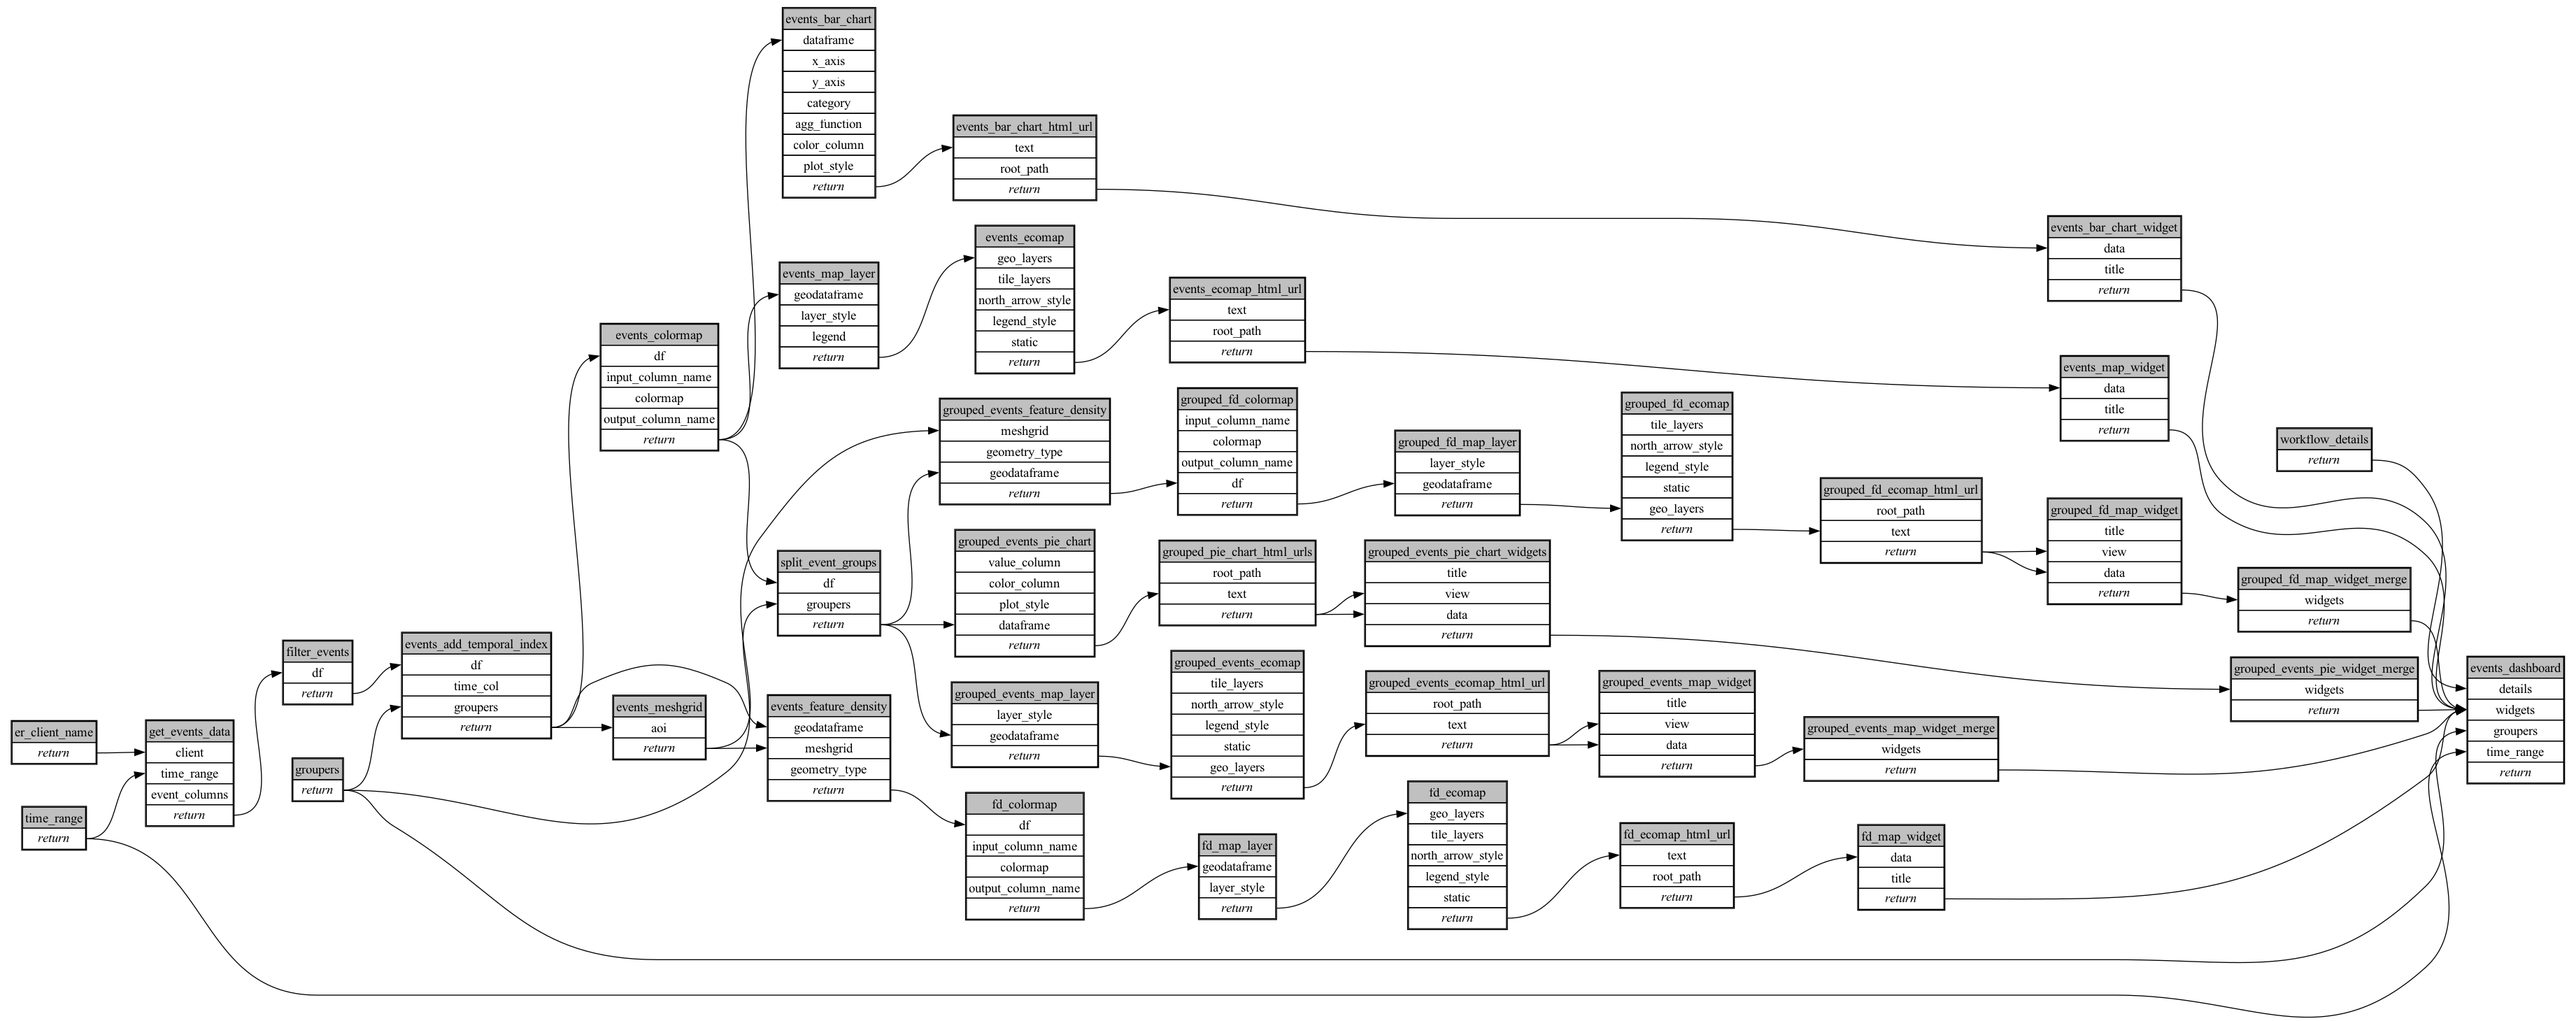
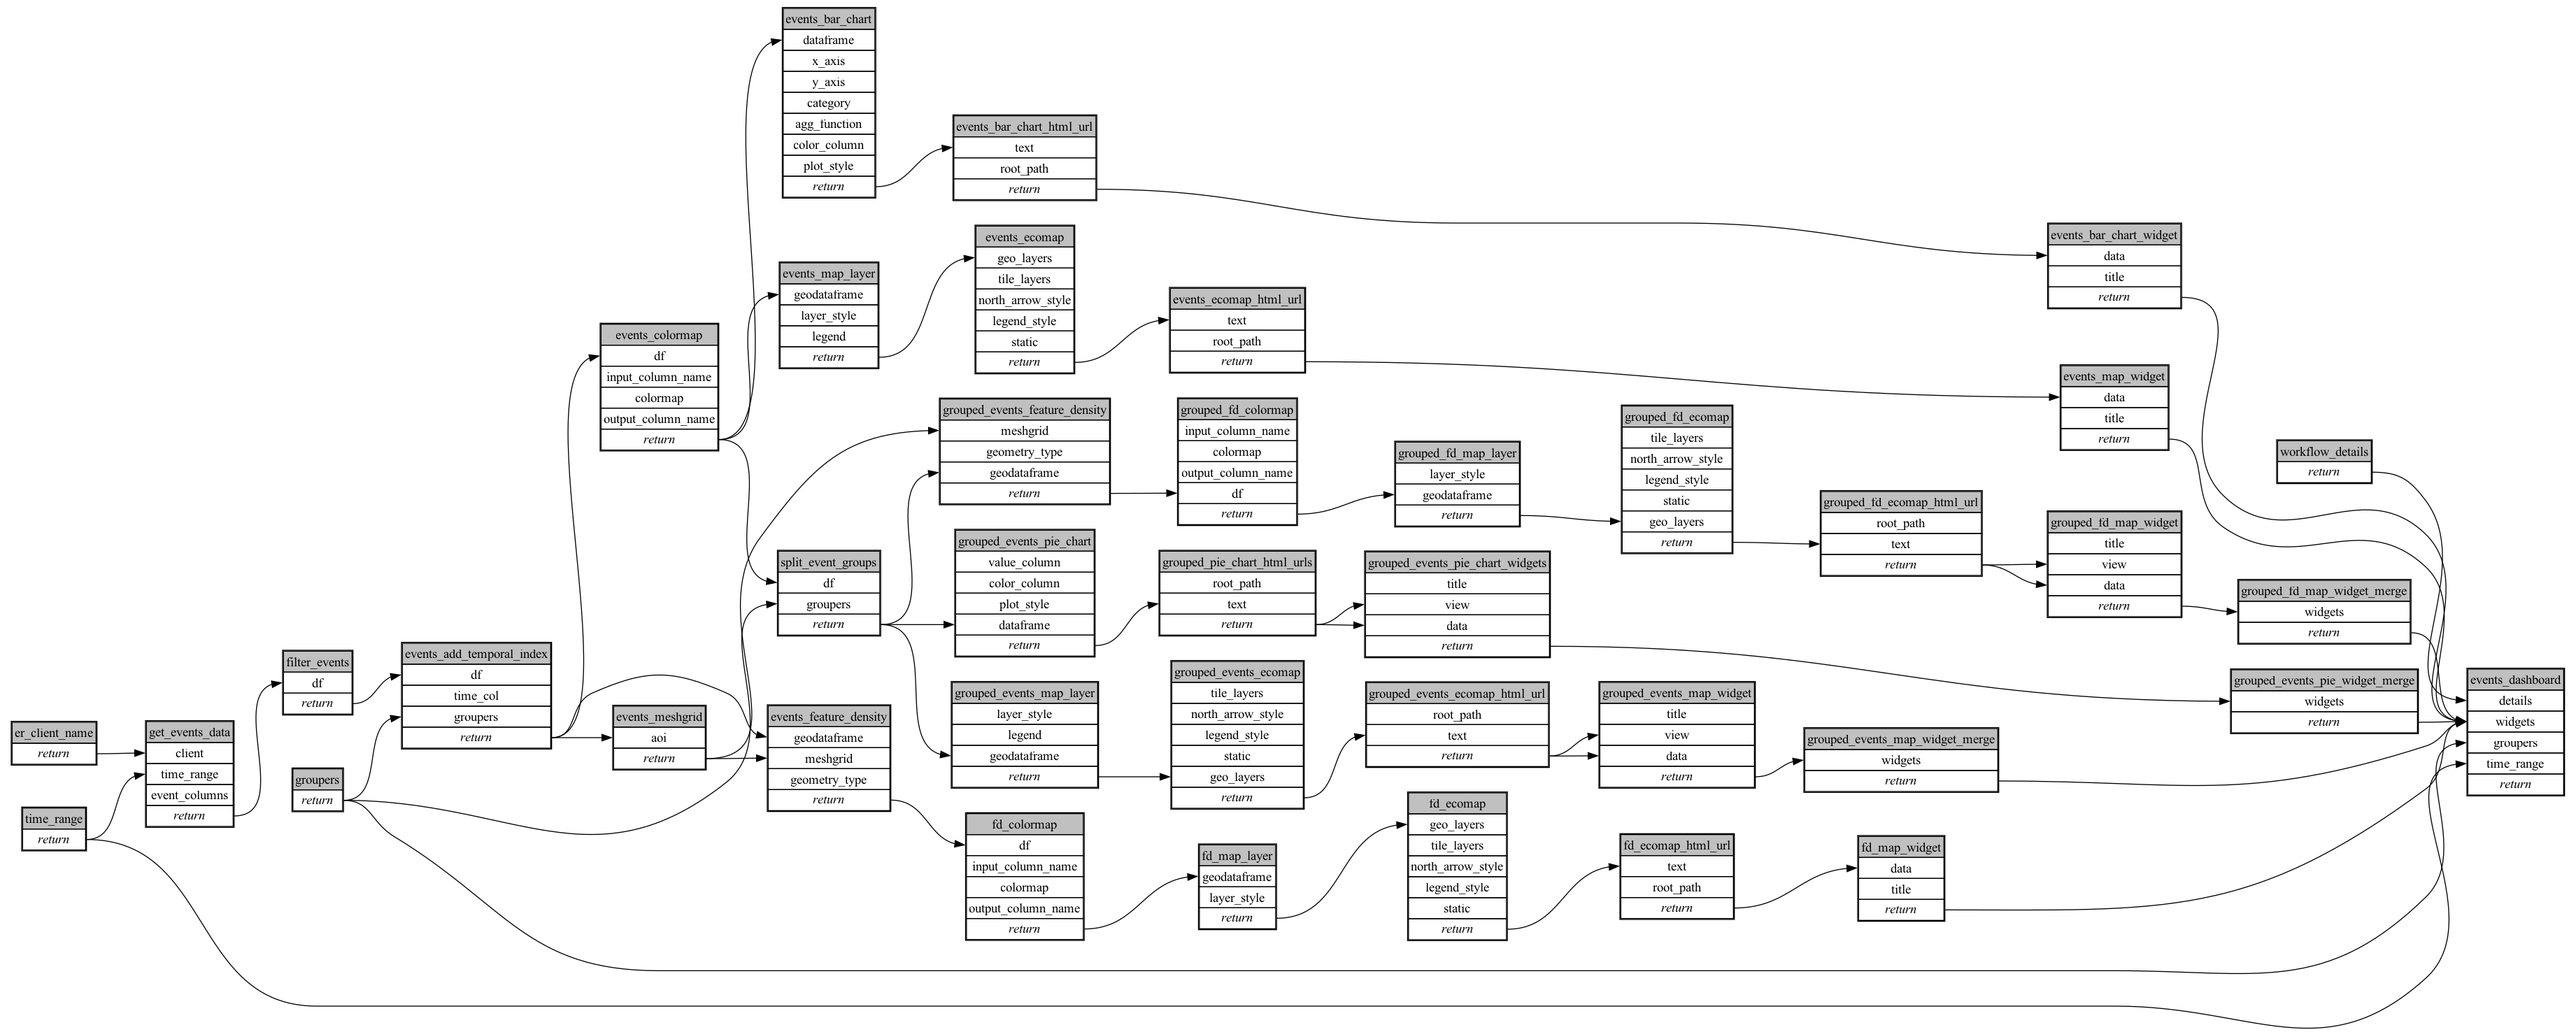
recompile

diff --git a/ecoscope-workflows-events-workflow/ecoscope_workflows_events_workflow/dags/jupytext.py b/ecoscope-workflows-events-workflow/ecoscope_workflows_events_workflow/dags/jupytext.py
@@ -524,9 +524,7 @@ split_event_groups = split_groups.partial(
 # %%
 # parameters
 
-grouped_events_map_layer_params = dict(
-    legend=...,
-)
+grouped_events_map_layer_params = dict()
 
 # %%
 # call the task
@@ -534,6 +532,7 @@ grouped_events_map_layer_params = dict(
 
 grouped_events_map_layer = create_point_layer.partial(
     layer_style={"fill_color_column": "event_type_colormap", "get_radius": 5},
+    legend={"label_column": "event_type", "color_column": "event_type_colormap"},
     **grouped_events_map_layer_params,
 ).mapvalues(argnames=["geodataframe"], argvalues=split_event_groups)
 

diff --git a/ecoscope-workflows-events-workflow/ecoscope_workflows_events_workflow/dags/run_sequential.py b/ecoscope-workflows-events-workflow/ecoscope_workflows_events_workflow/dags/run_sequential.py
@@ -268,6 +268,10 @@ def main(params: Params):
         create_point_layer.validate()
         .partial(
             layer_style={"fill_color_column": "event_type_colormap", "get_radius": 5},
+            legend={
+                "label_column": "event_type",
+                "color_column": "event_type_colormap",
+            },
             **(params_dict.get("grouped_events_map_layer") or {}),
         )
         .mapvalues(argnames=["geodataframe"], argvalues=split_event_groups)

diff --git a/ecoscope-workflows-events-workflow/ecoscope_workflows_events_workflow/dags/run_sequential_mock_io.py b/ecoscope-workflows-events-workflow/ecoscope_workflows_events_workflow/dags/run_sequential_mock_io.py
@@ -285,6 +285,10 @@ def main(params: Params):
         create_point_layer.validate()
         .partial(
             layer_style={"fill_color_column": "event_type_colormap", "get_radius": 5},
+            legend={
+                "label_column": "event_type",
+                "color_column": "event_type_colormap",
+            },
             **(params_dict.get("grouped_events_map_layer") or {}),
         )
         .mapvalues(argnames=["geodataframe"], argvalues=split_event_groups)

diff --git a/ecoscope-workflows-events-workflow/ecoscope_workflows_events_workflow/dags/run_async.py b/ecoscope-workflows-events-workflow/ecoscope_workflows_events_workflow/dags/run_async.py
@@ -321,6 +321,10 @@ def main(params: Params):
                     "fill_color_column": "event_type_colormap",
                     "get_radius": 5,
                 },
+                "legend": {
+                    "label_column": "event_type",
+                    "color_column": "event_type_colormap",
+                },
             }
             | (params_dict.get("grouped_events_map_layer") or {}),
             method="mapvalues",

diff --git a/ecoscope-workflows-events-workflow/ecoscope_workflows_events_workflow/dags/run_async_mock_io.py b/ecoscope-workflows-events-workflow/ecoscope_workflows_events_workflow/dags/run_async_mock_io.py
@@ -338,6 +338,10 @@ def main(params: Params):
                     "fill_color_column": "event_type_colormap",
                     "get_radius": 5,
                 },
+                "legend": {
+                    "label_column": "event_type",
+                    "color_column": "event_type_colormap",
+                },
             }
             | (params_dict.get("grouped_events_map_layer") or {}),
             method="mapvalues",

diff --git a/ecoscope-workflows-events-workflow/ecoscope_workflows_events_workflow/app.py b/ecoscope-workflows-events-workflow/ecoscope_workflows_events_workflow/app.py
@@ -23,7 +23,7 @@ from .params import Params
 app = FastAPI(
     title="events",
     debug=True,
-    version="b1a84f8",
+    version="370f27b",
 )
 app.add_middleware(
     CORSMiddleware,

diff --git a/ecoscope-workflows-events-workflow/README.md b/ecoscope-workflows-events-workflow/README.md
@@ -5,8 +5,8 @@
 
 ```yaml
 # fingerprint:
-artifacts_sha256_basic: 609f7f7bd500d5b328b85fbe5302c388a31bd45b1ad729e1e9cff839afd46dd5
-artifacts_sha256_strict: 42523bfe86bd4848654465e9e22ef32236e9f2b9b13694912d66f86d45b7716e
+artifacts_sha256_basic: b246bdc167212e681c554f0a256a2814c453ead455ed2f897ee13bb76d9196e9
+artifacts_sha256_strict: 3771c55c6409d82b7b52dd113abaf5063692eec1684853afb74f8328b05311be
 installed_requirements:
 - channel: https://repo.prefix.dev/ecoscope-workflows/
   name: ecoscope-workflows-core
@@ -15,7 +15,7 @@ installed_requirements:
   name: ecoscope-workflows-ext-ecoscope
   version: {version: ==0.0.28}
 params_sha256: e9c3d7543e10653153b2b92a20af8b909c2e8af0ee9b5d1780aeecb05acf5490
-spec_sha256: b1a84f80545ece91f41f06d01e633400b20866c90d3ddb5db8b2fdd861bc1ec4
+spec_sha256: 370f27b30dd30f40f4ace1f655685210fc5f79ed8b725166d8c49161d9d6d029
 
 ```
 
